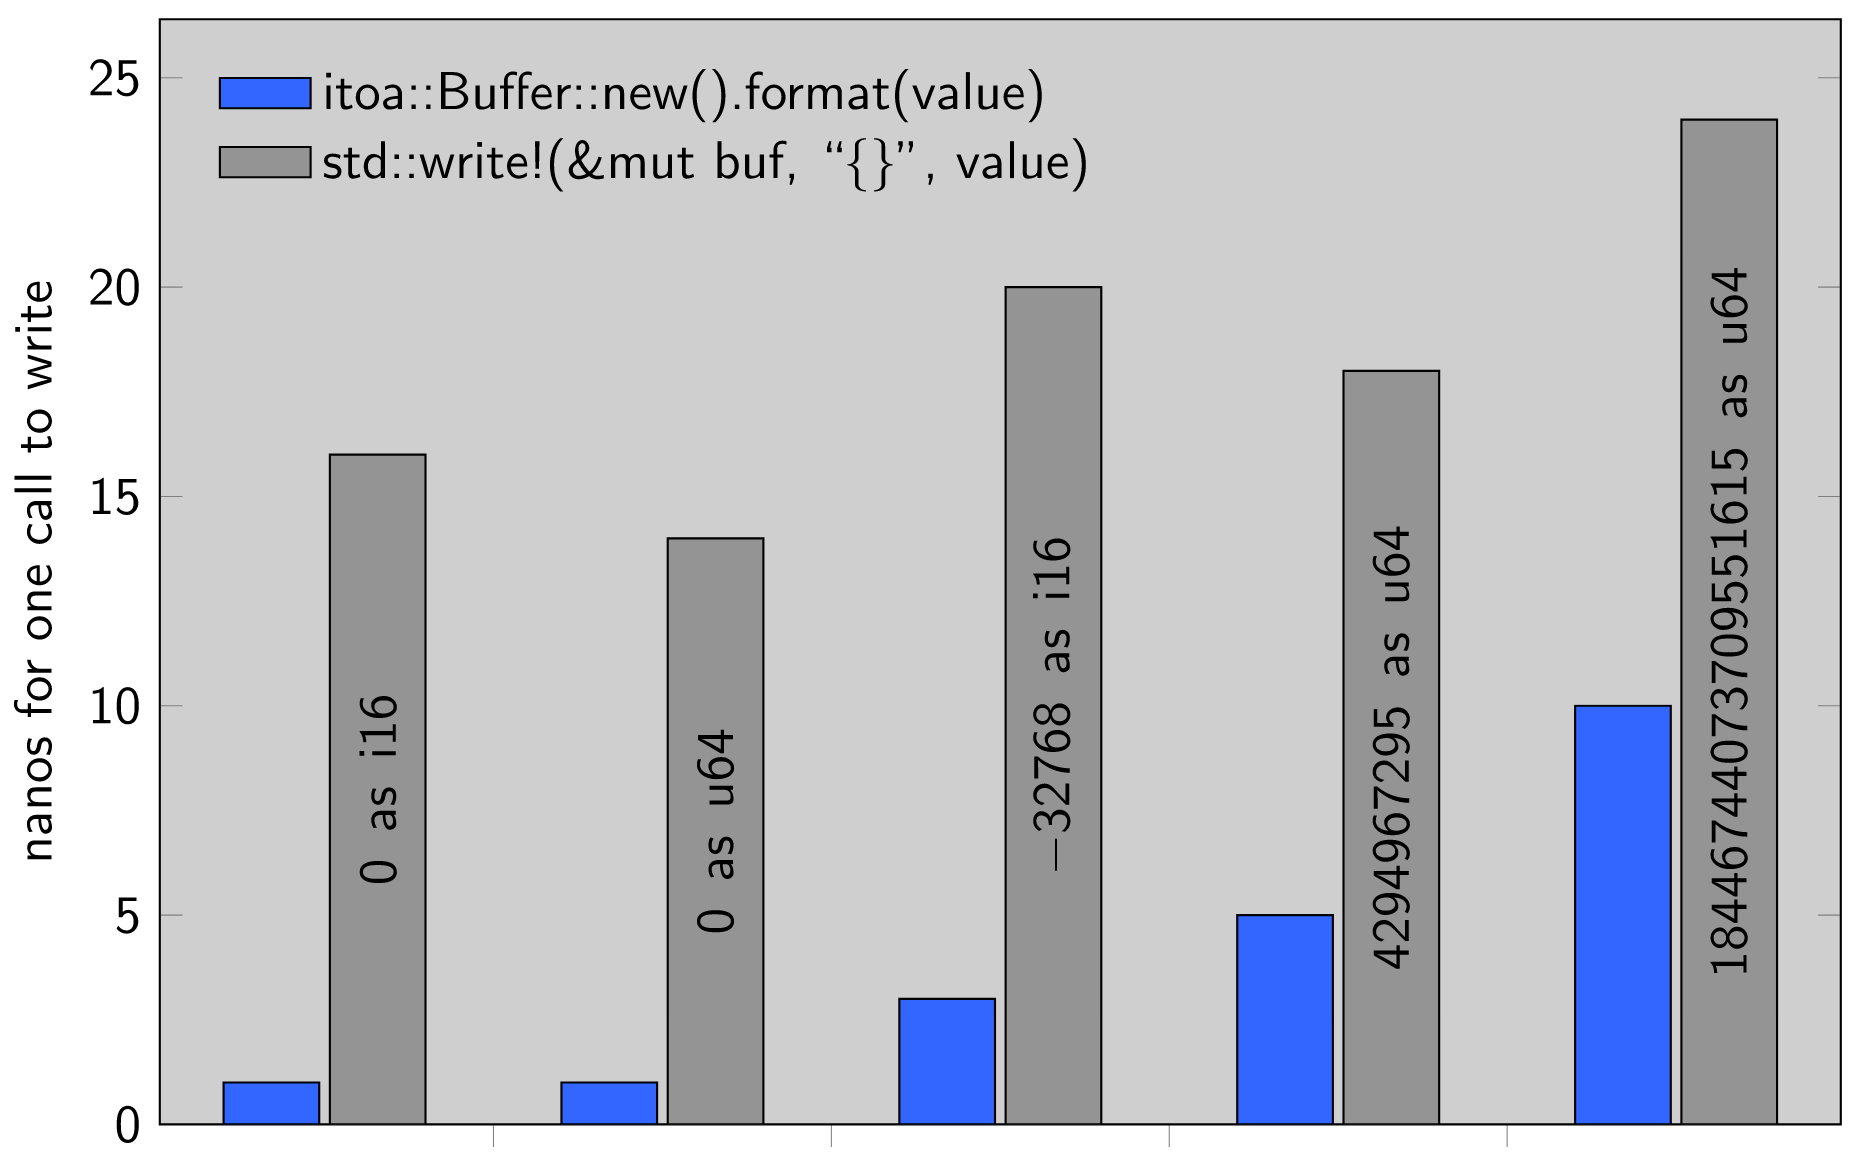
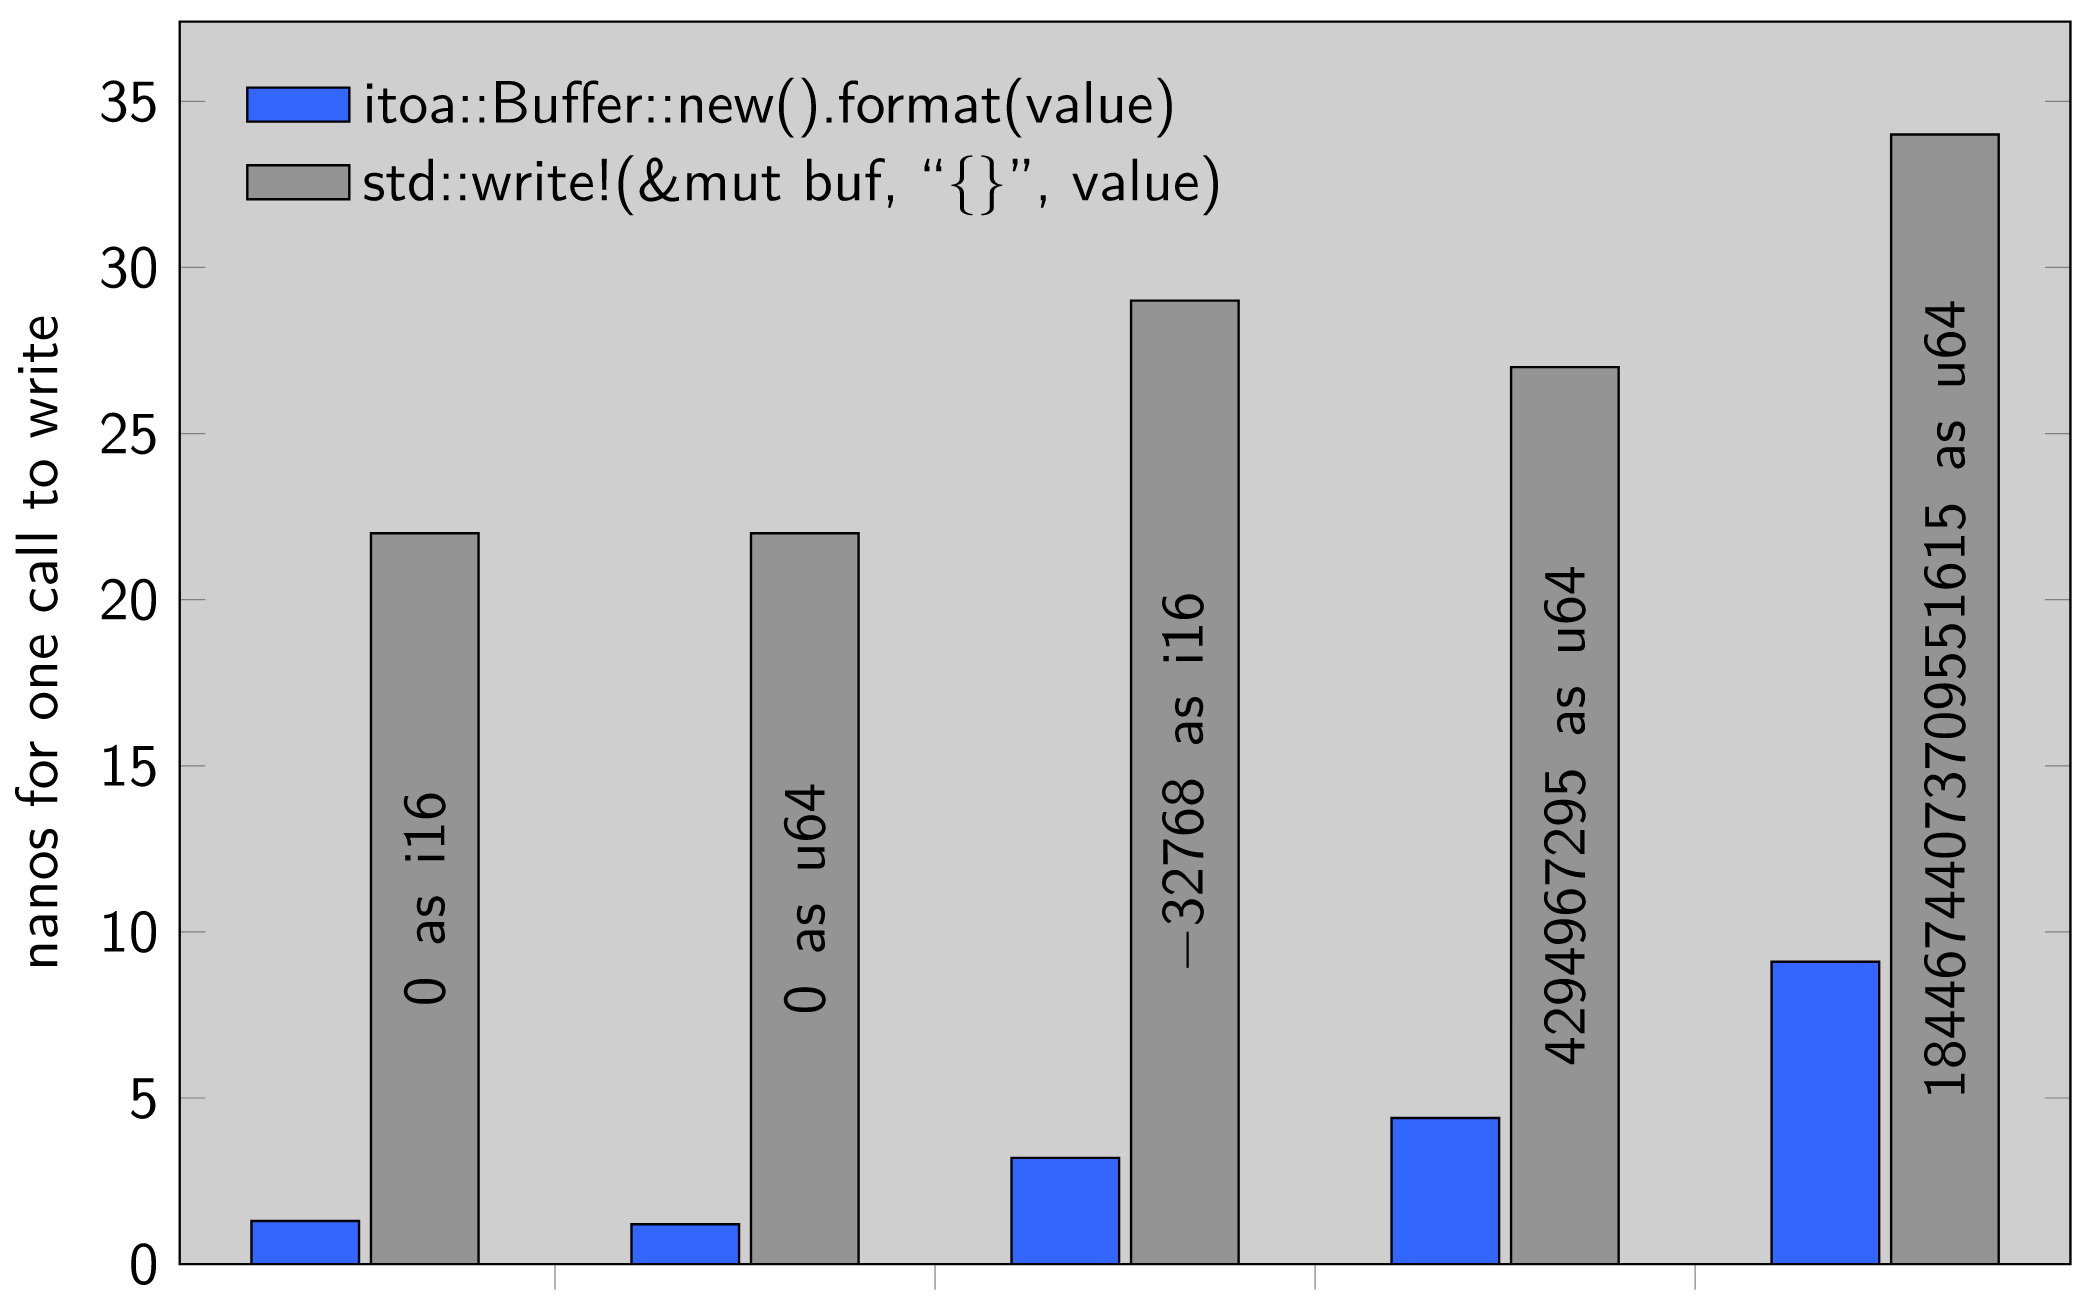
Update benchmark with Rust nightly-2025-09-01 and itoa 1.0.15
`RUSTFLAGS=-Ctarget-cpu=native cargo bench` on x86_64 AMD Ryzen Threadripper 2990WX.

diff --git a/chart/performance.tex b/chart/performance.tex
@@ -57,11 +57,11 @@
     area legend,
     nodes near coords={},
   ] coordinates {
-    (0, 1)
-    (1, 1)
-    (2, 3)
-    (3, 5)
-    (4, 10)
+    (0, 1.3)
+    (1, 1.2)
+    (2, 3.2)
+    (3, 4.4)
+    (4, 9.1)
   };
   \addplot[
     black,
@@ -69,11 +69,11 @@
     area legend,
     nodes near coords=\pgfmathsetmacro{\input}{{\entries}[\coordindex]}\input,
   ] coordinates {
-    (0, 16)
-    (1, 14)
-    (2, 20)
-    (3, 18)
-    (4, 24)
+    (0, 22)
+    (1, 22)
+    (2, 29)
+    (3, 27)
+    (4, 34)
   };
 \end{axis}
 \pgfresetboundingbox\path
